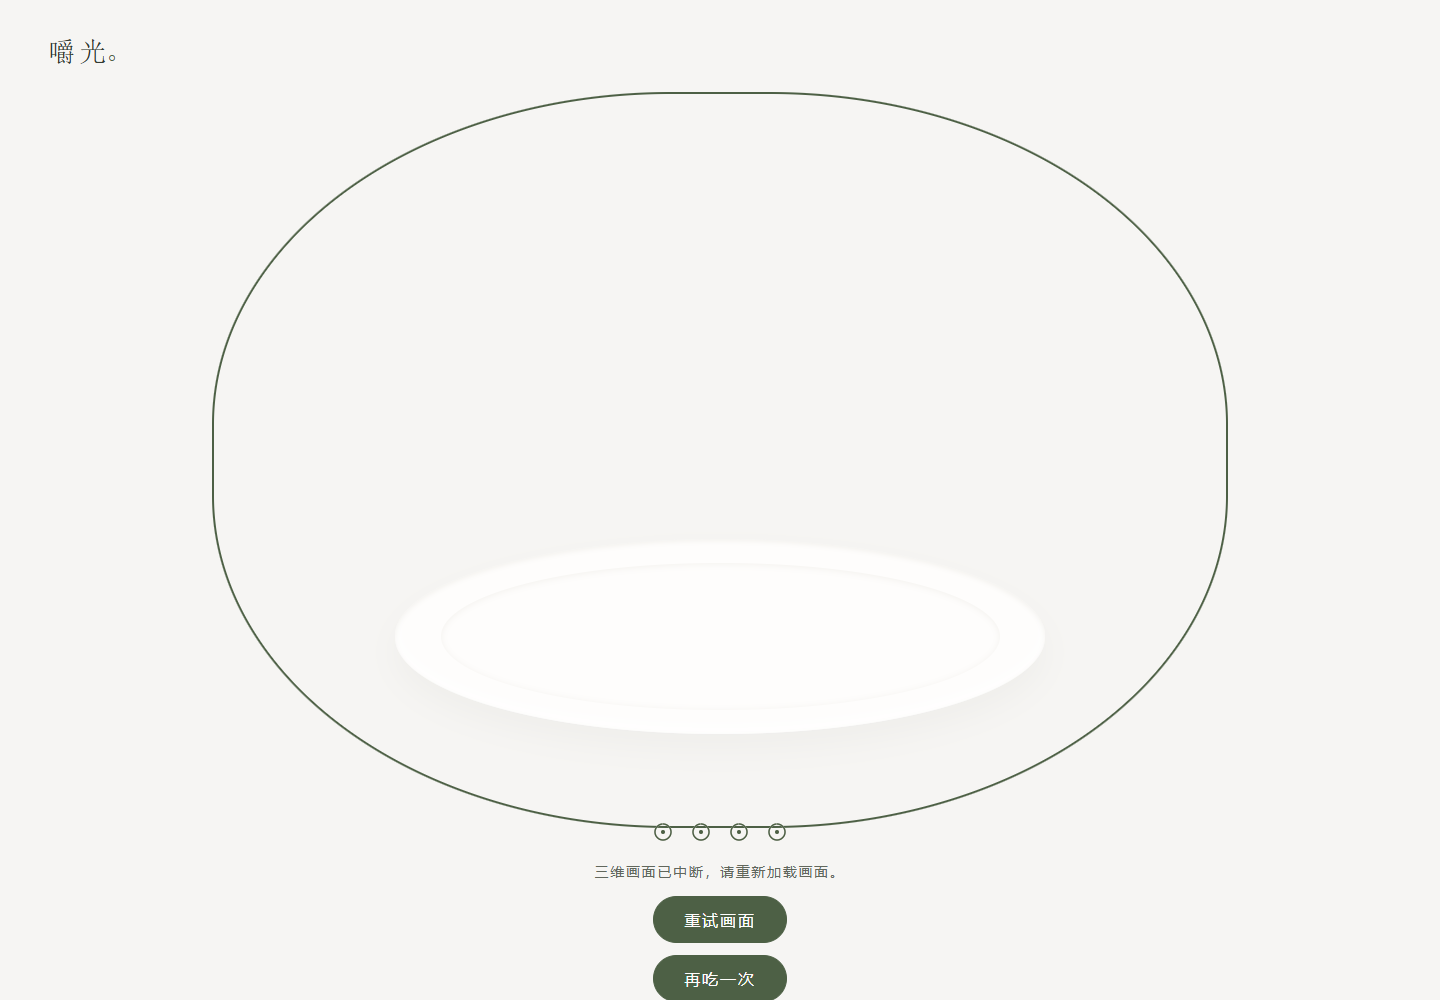
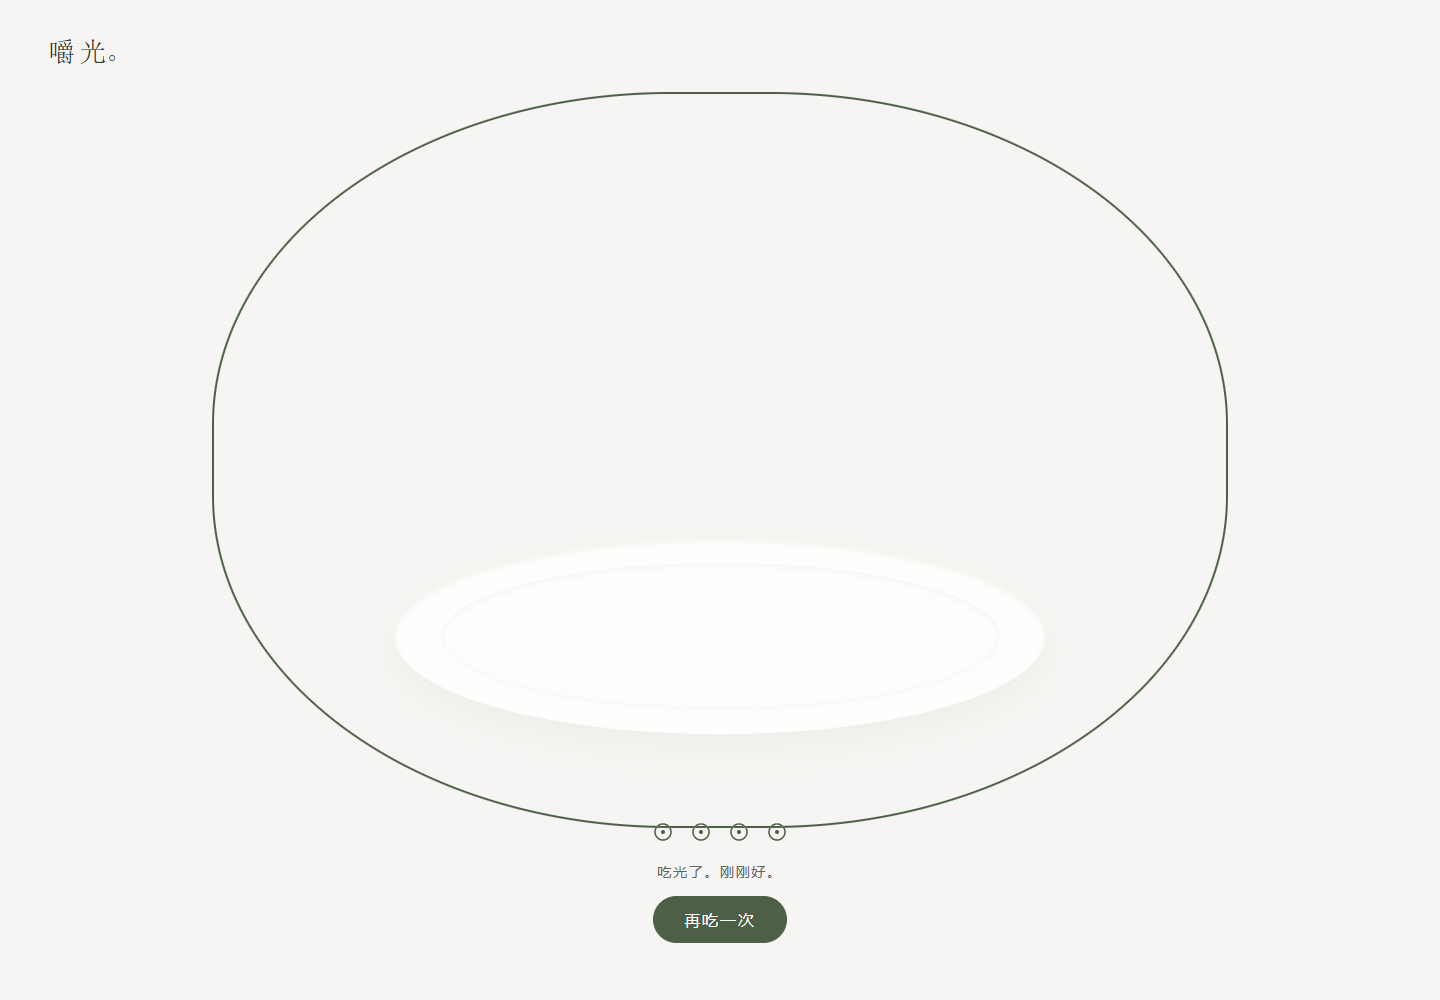
feat: deliver playable burger viewer v1

Changed region(s): [[0.4062, 0.868, 0.5625, 1.0]]

diff --git a/src/App.tsx b/src/App.tsx
@@ -22,29 +22,35 @@ export default function App() {
   const [state, dispatch] = useReducer(sequenceReducer, undefined, createSequenceState);
   const [motion] = useState(createMotion);
   const hit = useRef<HitTest | null>(null);
-  const setHit = useCallback((next: HitTest | null) => { hit.current = next; }, []);
+  const [hitReady, setHitReady] = useState(false);
+  const setHit = useCallback((next: HitTest | null, owner?: HitTest) => {
+    if (owner && hit.current !== owner) return;
+    hit.current = next;
+    setHitReady(Boolean(next));
+  }, []);
   const reduced = useReducedMotion();
   const [contextLost, setContextLost] = useState(false);
   useEffect(() => { void store.load(0); }, [store]);
   useEffect(() => {
     entries.forEach((entry, stage) => { if (entry.status === 'ready') dispatch({ type: 'READY', stage, run: state.run }); });
   }, [entries, state.run]);
-  const bite = () => { if (state.phase === 'idle' && !contextLost && hit.current) { impulse(motion); dispatch({ type: 'BITE' }); } };
-  const input = useFoodInput(motion, hit, state.phase === 'idle' && !contextLost, bite);
+  const bite = () => { if (state.phase === 'idle' && !contextLost && hitReady && hit.current) { impulse(motion); dispatch({ type: 'BITE' }); } };
+  const playable = state.phase === 'idle' && !contextLost && hitReady;
+  const input = useFoodInput(motion, hit, playable, bite);
   const current = entries[state.stage]!, base = entries[0]!;
   const needed = state.phase === 'loading' ? 0 : state.phase === 'waiting' ? state.stage + 1 : -1;
   const error = needed >= 0 && entries[needed]?.status === 'error';
   const status = contextLost ? '三维画面已中断，请重新加载画面。' : error ? '汉堡加载失败，重试后继续。' : state.phase === 'loading' ? '汉堡正在上桌…' : state.phase === 'waiting' ? '下一口正在准备…' : state.phase === 'finished' ? '吃光了。刚刚好。' : state.phase === 'final' || state.phase === 'eating' ? '这一口，满足。' : '轻点吃一口，拖动转一转';
-  return <main className="experience" data-testid="experience" data-stage={state.stage} data-bites={state.bites} data-phase={state.phase}>
+  return <main className="experience" data-testid="experience" data-stage={state.stage} data-bites={state.bites} data-phase={state.phase} data-hit-ready={hitReady}>
     <header><h1>嚼光<span className="brand-dot">。</span></h1></header>
     <div className="stage">
       <div className="plate" aria-hidden="true" />
-      <div className="food-input" role="button" tabIndex={0} aria-label="汉堡，轻点吃一口，拖动旋转" aria-disabled={state.phase !== 'idle' || contextLost} {...input}
-        onContextMenu={event => event.preventDefault()}>
-        <SceneBoundary>
-          {!contextLost && state.phase !== 'finished' && current.status === 'ready' && base.status === 'ready' && <Scene asset={current.asset} base={base.asset} state={state} motion={motion} reduced={reduced} dispatch={dispatch} setHit={setHit} onContextLost={() => setContextLost(true)} />}
-        </SceneBoundary>
-      </div>
+      <SceneBoundary>
+        <div className="food-input" role="button" tabIndex={0} aria-label="汉堡，轻点吃一口，拖动旋转" aria-disabled={!playable} data-hit-ready={hitReady} {...input}
+          onContextMenu={event => event.preventDefault()}>
+          {!contextLost && current.status === 'ready' && base.status === 'ready' && <Scene asset={current.asset} base={base.asset} state={state} motion={motion} reduced={reduced} dispatch={dispatch} setHit={setHit} onContextLost={() => { setContextLost(true); setHit(null); }} />}
+        </div>
+      </SceneBoundary>
     </div>
     <footer>
       <Progress stage={state.stage} bites={state.bites} />

diff --git a/src/scene/Scene.tsx b/src/scene/Scene.tsx
@@ -10,7 +10,7 @@ export type HitTest = (x: number, y: number) => boolean;
 interface Props {
   asset: ModelAsset; base: ModelAsset; state: SequenceState; motion: Motion;
   reduced: boolean; dispatch: (event: SequenceEvent) => void;
-  setHit: (hit: HitTest | null) => void;
+  setHit: (hit: HitTest | null, owner?: HitTest) => void;
   onContextLost: () => void;
 }
 function Food({ asset, base, state, motion, reduced, dispatch, setHit }: Props) {
@@ -18,6 +18,7 @@ function Food({ asset, base, state, motion, reduced, dispatch, setHit }: Props) 
   const { camera, size, gl } = useThree();
   const scene = useMemo(() => asset.scene.clone(true), [asset]);
   const timeline = useRef({ key: '', elapsed: 0, done: false });
+  const hitRef = useRef<HitTest | null>(null);
   useEffect(() => {
     const cam = camera as OrthographicCamera;
     cam.zoom = Math.min(size.width / (base.size.x * 1.63), size.height / (base.size.y * 1.8));
@@ -25,13 +26,17 @@ function Food({ asset, base, state, motion, reduced, dispatch, setHit }: Props) 
   }, [camera, size, base]);
   useEffect(() => {
     const ray = new Raycaster(), point = new Vector2();
-    setHit((x, y) => {
+    const hitTest: HitTest = (x, y) => {
       const rect = gl.domElement.getBoundingClientRect();
       point.set((x - rect.left) / rect.width * 2 - 1, -(y - rect.top) / rect.height * 2 + 1);
       ray.setFromCamera(point, camera);
       return !!rotation.current && ray.intersectObject(rotation.current, true).length > 0;
-    });
-    return () => setHit(null);
+    };
+    hitRef.current = hitTest;
+    setHit(hitTest);
+    return () => {
+      if (hitRef.current === hitTest) hitRef.current = null;
+    };
   }, [camera, gl, setHit]);
   useFrame((_, dt) => {
     stepMotion(motion, dt);
@@ -48,7 +53,7 @@ function Food({ asset, base, state, motion, reduced, dispatch, setHit }: Props) 
     const progress = Math.min(1, time.elapsed / duration);
     exit.current.position.y = state.phase === 'eating' ? -progress * 0.1 : 0;
     // Composite the canvas instead of changing any original material.
-    gl.domElement.style.opacity = state.phase === 'eating' ? String(1 - progress) : '1';
+    gl.domElement.style.opacity = state.phase === 'eating' ? String(1 - progress) : state.phase === 'finished' ? '0' : '1';
     const scale = state.phase === 'final' ? 1 - Math.sin(progress * Math.PI) * (reduced ? 0 : 0.06) : 1;
     exit.current.scale.setScalar(scale);
     if ((state.phase === 'final' || state.phase === 'eating') && progress === 1 && !time.done) {

diff --git a/tests/burger.spec.ts b/tests/burger.spec.ts
@@ -3,6 +3,7 @@ import { test, expect, type Page } from '@playwright/test';
 async function idle(page: Page, stage: number) {
   await expect(page.getByTestId('experience')).toHaveAttribute('data-stage', String(stage));
   await expect(page.getByTestId('experience')).toHaveAttribute('data-phase', 'idle');
+  await expect(page.getByRole('button', { name: '汉堡，轻点吃一口，拖动旋转' })).toHaveAttribute('data-hit-ready', 'true');
 }
 async function bites(page: Page, count: number) {
   const area = page.getByRole('button', { name: '汉堡，轻点吃一口，拖动旋转' });

diff --git a/tests/input-errors.spec.ts b/tests/input-errors.spec.ts
@@ -46,6 +46,7 @@ test('renderer fallback retry remains clickable inside food input', async ({ pag
   await expect(page.getByRole('button', { name: '重试画面' })).toBeVisible();
   await page.getByRole('button', { name: '重试画面' }).click();
   await expect(page.getByTestId('experience')).toHaveAttribute('data-phase', 'idle');
+  await expect(page.getByTestId('experience')).toHaveAttribute('data-hit-ready', 'true');
   const food = page.getByRole('button', { name: '汉堡，轻点吃一口，拖动旋转' });
   await food.focus();
   await page.keyboard.press('Enter');

diff --git a/docs/task-2-report.md b/docs/task-2-report.md
@@ -61,3 +61,7 @@ Background execution IDs: `pwsh-62fffc61f6db42d7`, `pwsh-373bf9c7b3f84daa`, `pws
 Review found that the renderer error boundary fallback is nested inside `.food-input`. Its retry button therefore bubbles `pointerdown` to the food input, which captured the pointer before the button's native click could fire. `src/ui/useFoodInput.ts` now exits before pointer tracking/capture when the event target is an interactive descendant (`button`, `a`, `input`, or `[data-no-drag]`). This preserves the fallback's explicit retry behavior while leaving model-hit drag/tap routing unchanged.
 
 Regression evidence: the focused Playwright test `renderer fallback retry remains clickable inside food input` first forces a renderer failure, clicks the nested `重试画面` button, then verifies keyboard bite and drag isolation. It failed before the guard with `data-bites` remaining `0`, and passed after the guard. Unit tests passed (25), typecheck passed, production build passed, and the focused browser regression passed. A subsequent full browser run reached 5/6 tests; the remaining failure was Playwright trace artifact cleanup (`ENOENT` while closing the context), not an application assertion.
+
+## Replay readiness fix
+
+The first hit-ready integration left the final replay with `idle` state but no active raycast callback because Scene cleanup could clear the shared hit reference during the R3F lifecycle. The final implementation preserves the active hit registration through ordinary Scene cleanup and clears it explicitly on WebGL context loss. The retry controls are outside the food input role, and `data-hit-ready=true` is exposed only after the raycast callback is registered. Final verification after this fix: 25 unit tests passed, typecheck passed, production build passed, and all 6 browser tests passed in 50.4 seconds. The successful full-loop flow now includes replay followed by a new ready state.

diff --git a/README.md b/README.md
@@ -1,0 +1,43 @@
+# 嚼光
+
+一个可以转着看、点着吃的 3D 汉堡。首版使用四份原始模型，每阶段八口，吃完后可以重新开始。
+
+## 本地开发
+
+需要 Node.js 22.12+ 与 pnpm。
+
+```sh
+pnpm install
+pnpm dev
+```
+
+打开终端输出的本地地址。手机与电脑在同一网络时，可以使用 `pnpm dev --host 0.0.0.0`，再从手机访问电脑的局域网地址。
+
+```sh
+pnpm test
+pnpm typecheck
+pnpm build
+pnpm preview
+pnpm test:browser
+```
+
+`dist/` 是生产静态产物，包含模型文件。部署时保持完整目录结构。
+
+## 首版范围
+
+- 鼠标或触屏拖拽观察，松手后有惯性；轻点食物进食。
+- 四个阶段，每阶段八次有效轻点；切换期间不计数。
+- 首阶段就绪即可玩，其余阶段后台预载；未就绪时保留当前食物，加载失败可以重试。
+- 吃完停在空盘，由用户主动重玩。
+- 聚焦食物区域后也可通过空格或回车进食；支持系统减少动态效果设置。
+
+音效、震动、多食物入口、后台、账号和成就不属于本次交付。模型未经减面、压缩、补洞或材质修复，四份共约 71.87 MiB。大文件会影响首次加载，原始生成模型可能有镜面感、底部缺陷与阶段形状差异。这些会在观察后再优化。
+
+原始模型副本位于 `public/models/`。四个副本已与源文件做 SHA256 一致性核对，详见 [验证记录](docs/verification.md)。
+
+## 设计依据
+
+- [已确认首版设计](docs/superpowers/specs/2026-10-30-burger-v1-design.md)
+- [实施计划](docs/superpowers/plans/2026-10-30-burger-v1.md)
+
+当前为本地 Git 仓库，没有推送远端或发布到公网。移动浏览器真机兼容与性能需要在对应设备另行验收。
